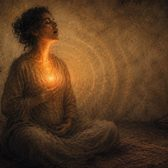
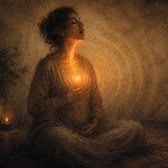
Add promo-launch opt-out (nopromo_June26 Drip tag) + page; footer cadence copy; recrop thumbnail

diff --git a/docs/campaigns/website-launch-announcement-en.html b/docs/campaigns/website-launch-announcement-en.html
@@ -207,7 +207,10 @@
     <a href="https://www.songdance.co/what-is-svh" style="color: #A14826; text-decoration: none;">what is svh</a>&nbsp;&nbsp;&middot;&nbsp;&nbsp;<a href="https://www.songdance.co/courses" style="color: #A14826; text-decoration: none;">courses</a>&nbsp;&nbsp;&middot;&nbsp;&nbsp;<a href="https://www.songdance.co/events" style="color: #A14826; text-decoration: none;">events</a>&nbsp;&nbsp;&middot;&nbsp;&nbsp;<a href="https://www.songdance.co/about" style="color: #A14826; text-decoration: none;">about</a>&nbsp;&nbsp;&middot;&nbsp;&nbsp;<a href="https://www.songdance.co/reviews" style="color: #A14826; text-decoration: none;">reviews</a>
   </p>
   <p style="font-family: 'Figtree', Helvetica, Arial, sans-serif; font-size: 11px; line-height: 1.7; color: #7A6A78; margin: 0 0 6px;">
-    A quiet list &mdash; maybe once a month. <a href="{{ unsubscribe_url }}" style="color: #7A6A78; text-decoration: underline;">Unsubscribe</a> anytime.
+    A quiet list &mdash; about once a month. Sometimes more: across the launch window (through 30 June) you'll get a handful of emails about the new site and the courses.
+  </p>
+  <p style="font-family: 'Figtree', Helvetica, Arial, sans-serif; font-size: 11px; line-height: 1.7; color: #7A6A78; margin: 0 0 6px;">
+    Just want the launch emails to stop? <a href="https://www.songdance.co/unsubscribe-promo?e={{ subscriber.email | url_encode }}" style="color: #7A6A78; text-decoration: underline;">Stop these</a> &mdash; you'll stay on the quiet monthly list. Or <a href="{{ unsubscribe_url }}" style="color: #7A6A78; text-decoration: underline;">unsubscribe from everything</a>.
   </p>
   <p style="font-family: 'Figtree', Helvetica, Arial, sans-serif; font-size: 11px; line-height: 1.7; color: #9A8A78; margin: 0;">
     {{ html_postal_address }}<br>BE0743575076

diff --git a/src/pages/api/unsubscribe-promo.ts b/src/pages/api/unsubscribe-promo.ts
@@ -1,0 +1,51 @@
+// POST { e: email } → tags the subscriber `nopromo_June26` in Drip so a
+// segment can exclude them from the June 2026 launch campaign. They stay on
+// the general monthly list — this is a campaign opt-out, not a full
+// unsubscribe (that lives at /unsubscribe + /api/unsubscribe).
+//
+// Called by a small script on /unsubscribe-promo when the page loads, rather
+// than on GET, so link-prefetchers and email security scanners (which don't
+// run JavaScript) can't opt anyone out by accident.
+
+import type { APIRoute } from 'astro';
+import { applyTag } from '../../lib/registrations/drip';
+
+export const prerender = false;
+
+// The promo campaign tag. Bump this string if a future launch window reuses
+// this page so each campaign gets its own opt-out segment.
+const PROMO_TAG = 'nopromo_June26';
+
+export const POST: APIRoute = async ({ request, locals }) => {
+  const env = locals.runtime.env;
+
+  let email = '';
+  try {
+    const body = (await request.json()) as { e?: string };
+    email = (body.e ?? '').trim().toLowerCase();
+  } catch {
+    return json({ error: 'Invalid request.' }, 400);
+  }
+
+  if (!email || !/^[^\s@]+@[^\s@]+\.[^\s@]+$/.test(email)) {
+    return json({ error: 'A valid email is required.' }, 400);
+  }
+
+  try {
+    await applyTag(
+      { apiToken: env.DRIP_API_TOKEN, accountId: env.DRIP_ACCOUNT_ID },
+      email,
+      PROMO_TAG,
+    );
+    return json({ ok: true });
+  } catch (err) {
+    return json({ error: String(err) }, 502);
+  }
+};
+
+function json(body: unknown, status = 200) {
+  return new Response(JSON.stringify(body), {
+    status,
+    headers: { 'Content-Type': 'application/json' },
+  });
+}

diff --git a/src/lib/registrations/drip.ts b/src/lib/registrations/drip.ts
@@ -115,6 +115,30 @@ export async function getSubscriber(
   };
 }
 
+// Apply a single tag to a subscriber. Drip creates the subscriber if the
+// address is new, so this is safe to call for anyone who clicks a link in a
+// send. Used by the promo-launch opt-out (`nopromo_June26`) — the tag lets a
+// Drip segment exclude them from the launch campaign while keeping them on the
+// general monthly list.
+// POST /v2/:account_id/tags  { tags: [{ email, tag }] }
+export async function applyTag(
+  cfg: DripConfig,
+  email: string,
+  tag: string,
+): Promise<void> {
+  const res = await fetch(`${baseUrl(cfg)}/tags`, {
+    method: 'POST',
+    headers: {
+      Authorization: authHeader(cfg),
+      'Content-Type': 'application/vnd.api+json',
+    },
+    body: JSON.stringify({ tags: [{ email, tag }] }),
+  });
+  if (!res.ok) {
+    throw new Error(`Drip applyTag: ${res.status} ${await res.text()}`);
+  }
+}
+
 export async function recordEvent(
   cfg: DripConfig,
   email: string,
